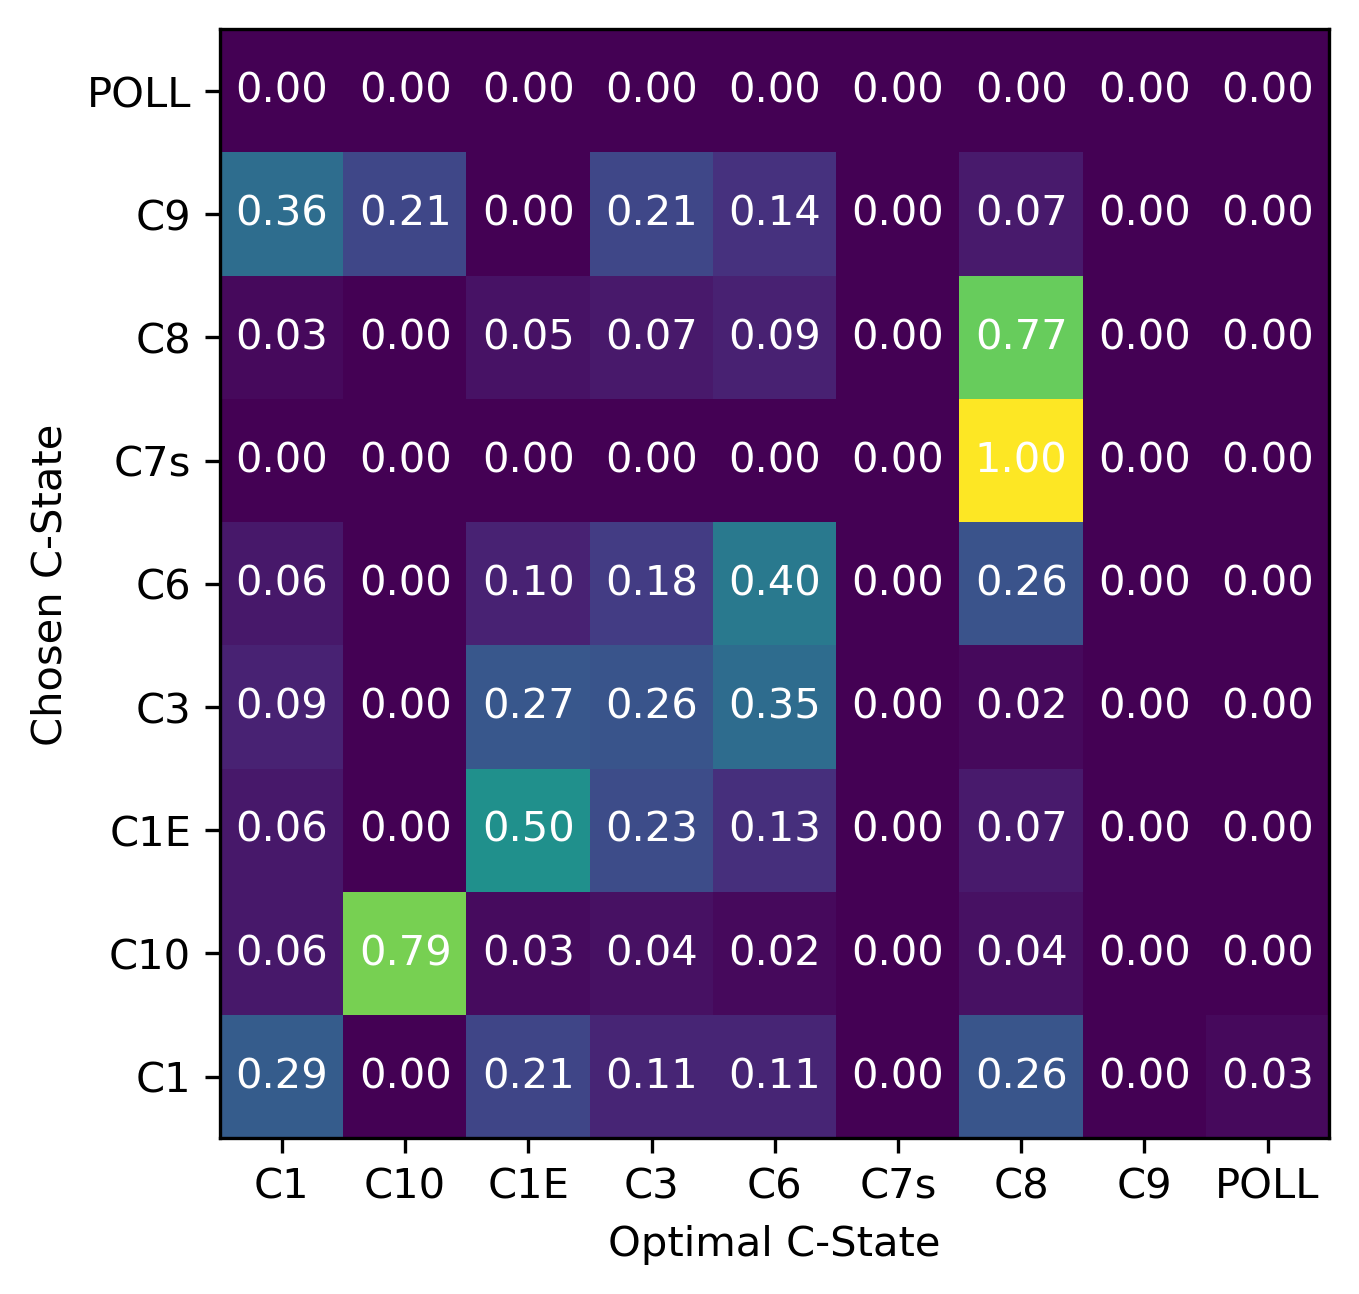
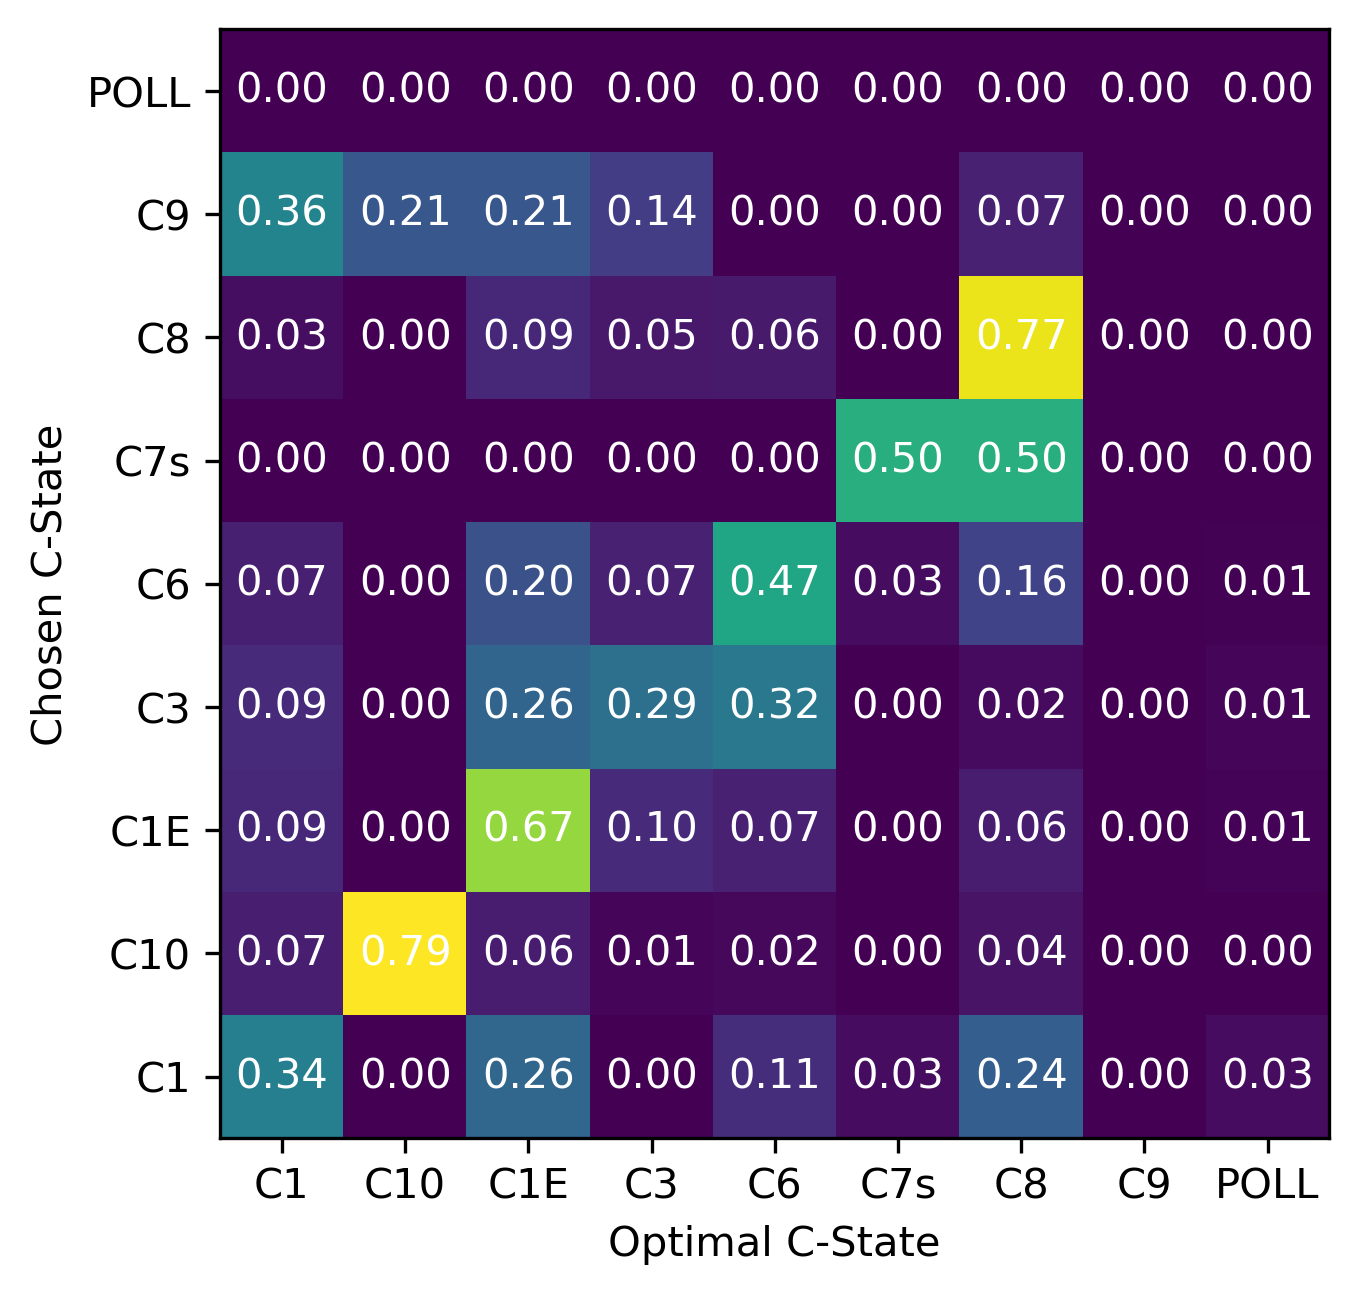
idle-governor: heatmap update only for miss

diff --git a/images/idle-governor/idle-governor-cstate-heatmap.py b/images/idle-governor/idle-governor-cstate-heatmap.py
@@ -13,7 +13,7 @@ FILE_JSON = FILE_BASE + ".json"
 
 
 # Read data from file
-df = pd.read_csv(FILE_DATA, delim_whitespace=True, usecols=['C-State', 'Sleep[ns]', 'CPU'])
+df = pd.read_csv(FILE_DATA, delim_whitespace=True, usecols=['C-State', 'Sleep[ns]', 'CPU', 'Miss'])
 residencies = pd.read_json(FILE_JSON)
 
 
@@ -24,10 +24,11 @@ for i in range(len(df)):
     # The smallest residency is always 0
     opt_res_time = -1
     opt_res_name = None
-    for res in residencies['cpu' + str(df.loc[i]['CPU'])].items():
-        if int(res[1]['residency'])*1000 <= sleep and int(res[1]['residency']) >= opt_res_time:
-            opt_res_time = int(res[1]['residency'])
-            opt_res_name = res[1]['name']
+    if df.loc[i]['Miss'] == 1:
+        for res in residencies['cpu' + str(df.loc[i]['CPU'])].items():
+            if int(res[1]['residency'])*1000 <= sleep and int(res[1]['residency']) >= opt_res_time:
+                opt_res_time = int(res[1]['residency'])
+                opt_res_name = res[1]['name']
     if opt_res_name is None:
         df.loc[i, 'Optimal-State'] = df.loc[i, 'C-State']
     else:
